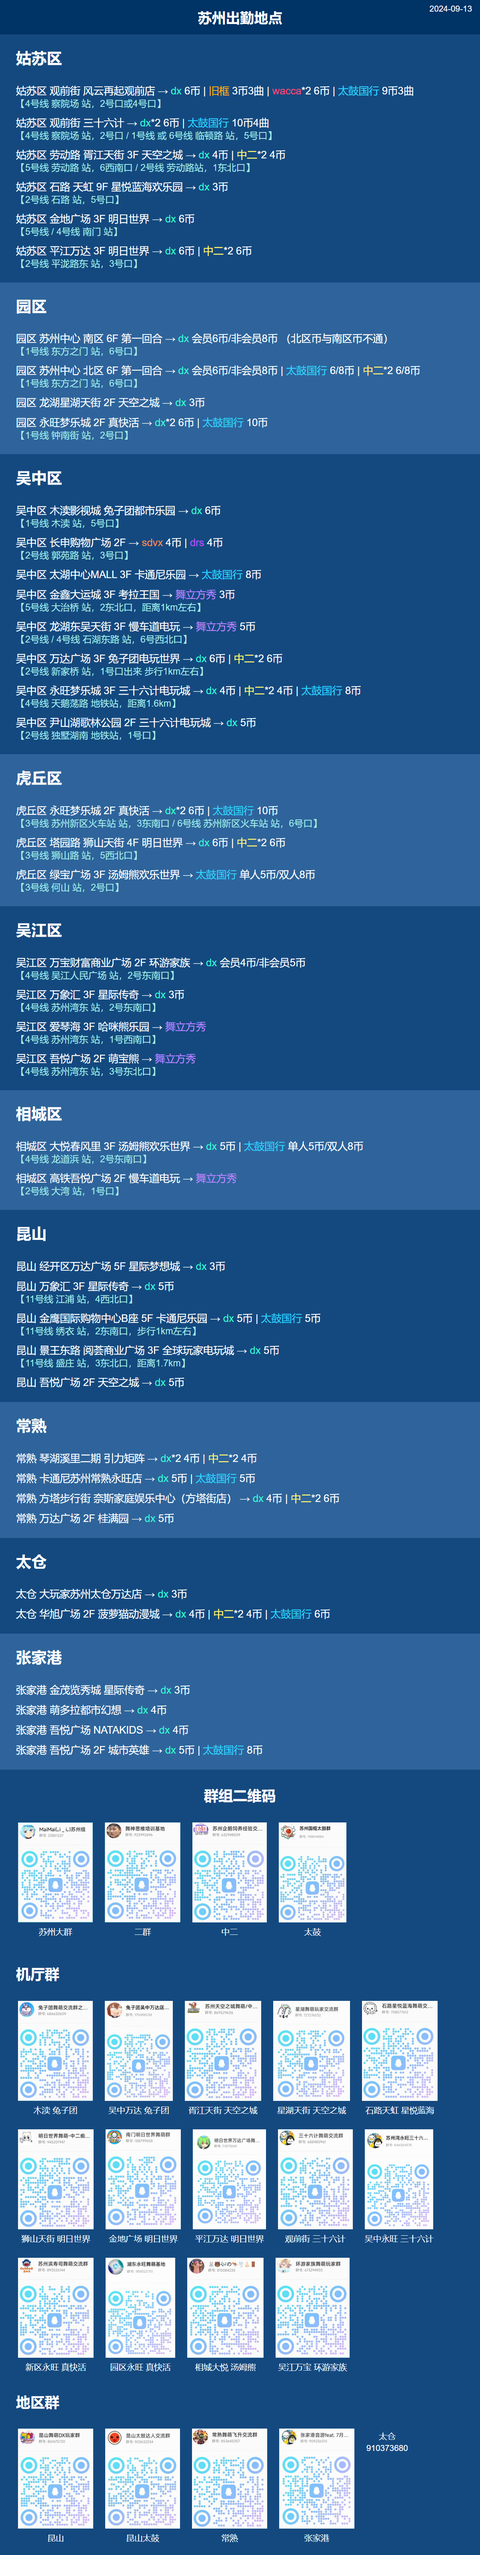
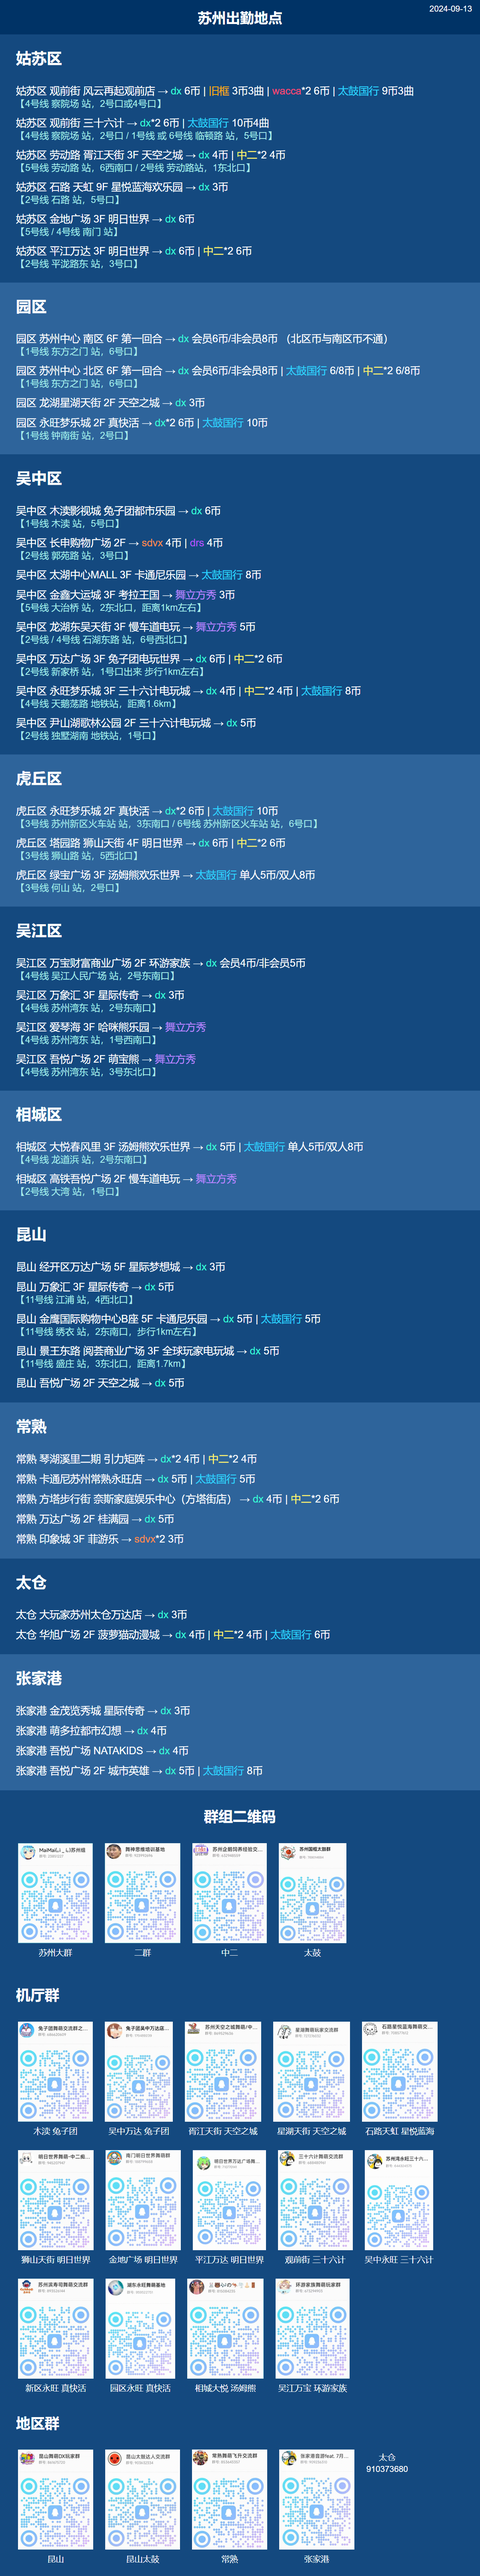
update

Changed region(s): [[0.0, 0.0312, 1.0, 0.9972], [0.6475, 0.2493, 0.7092, 0.2805]]

diff --git a/index.html b/index.html
@@ -334,6 +334,10 @@
 	<div class="item">
     常熟 万达广场 2F 桂满园 → <span class="dx">dx</span> 5币 <br />
   </div>
+	<br />
+	<div class="item">
+    常熟 印象城 3F 菲游乐 → <span class="sdvx">sdvx</span>*2 3币 <br />
+  </div>
 </div>
 <!-- 太仓 -->
 <div class="content-section">
